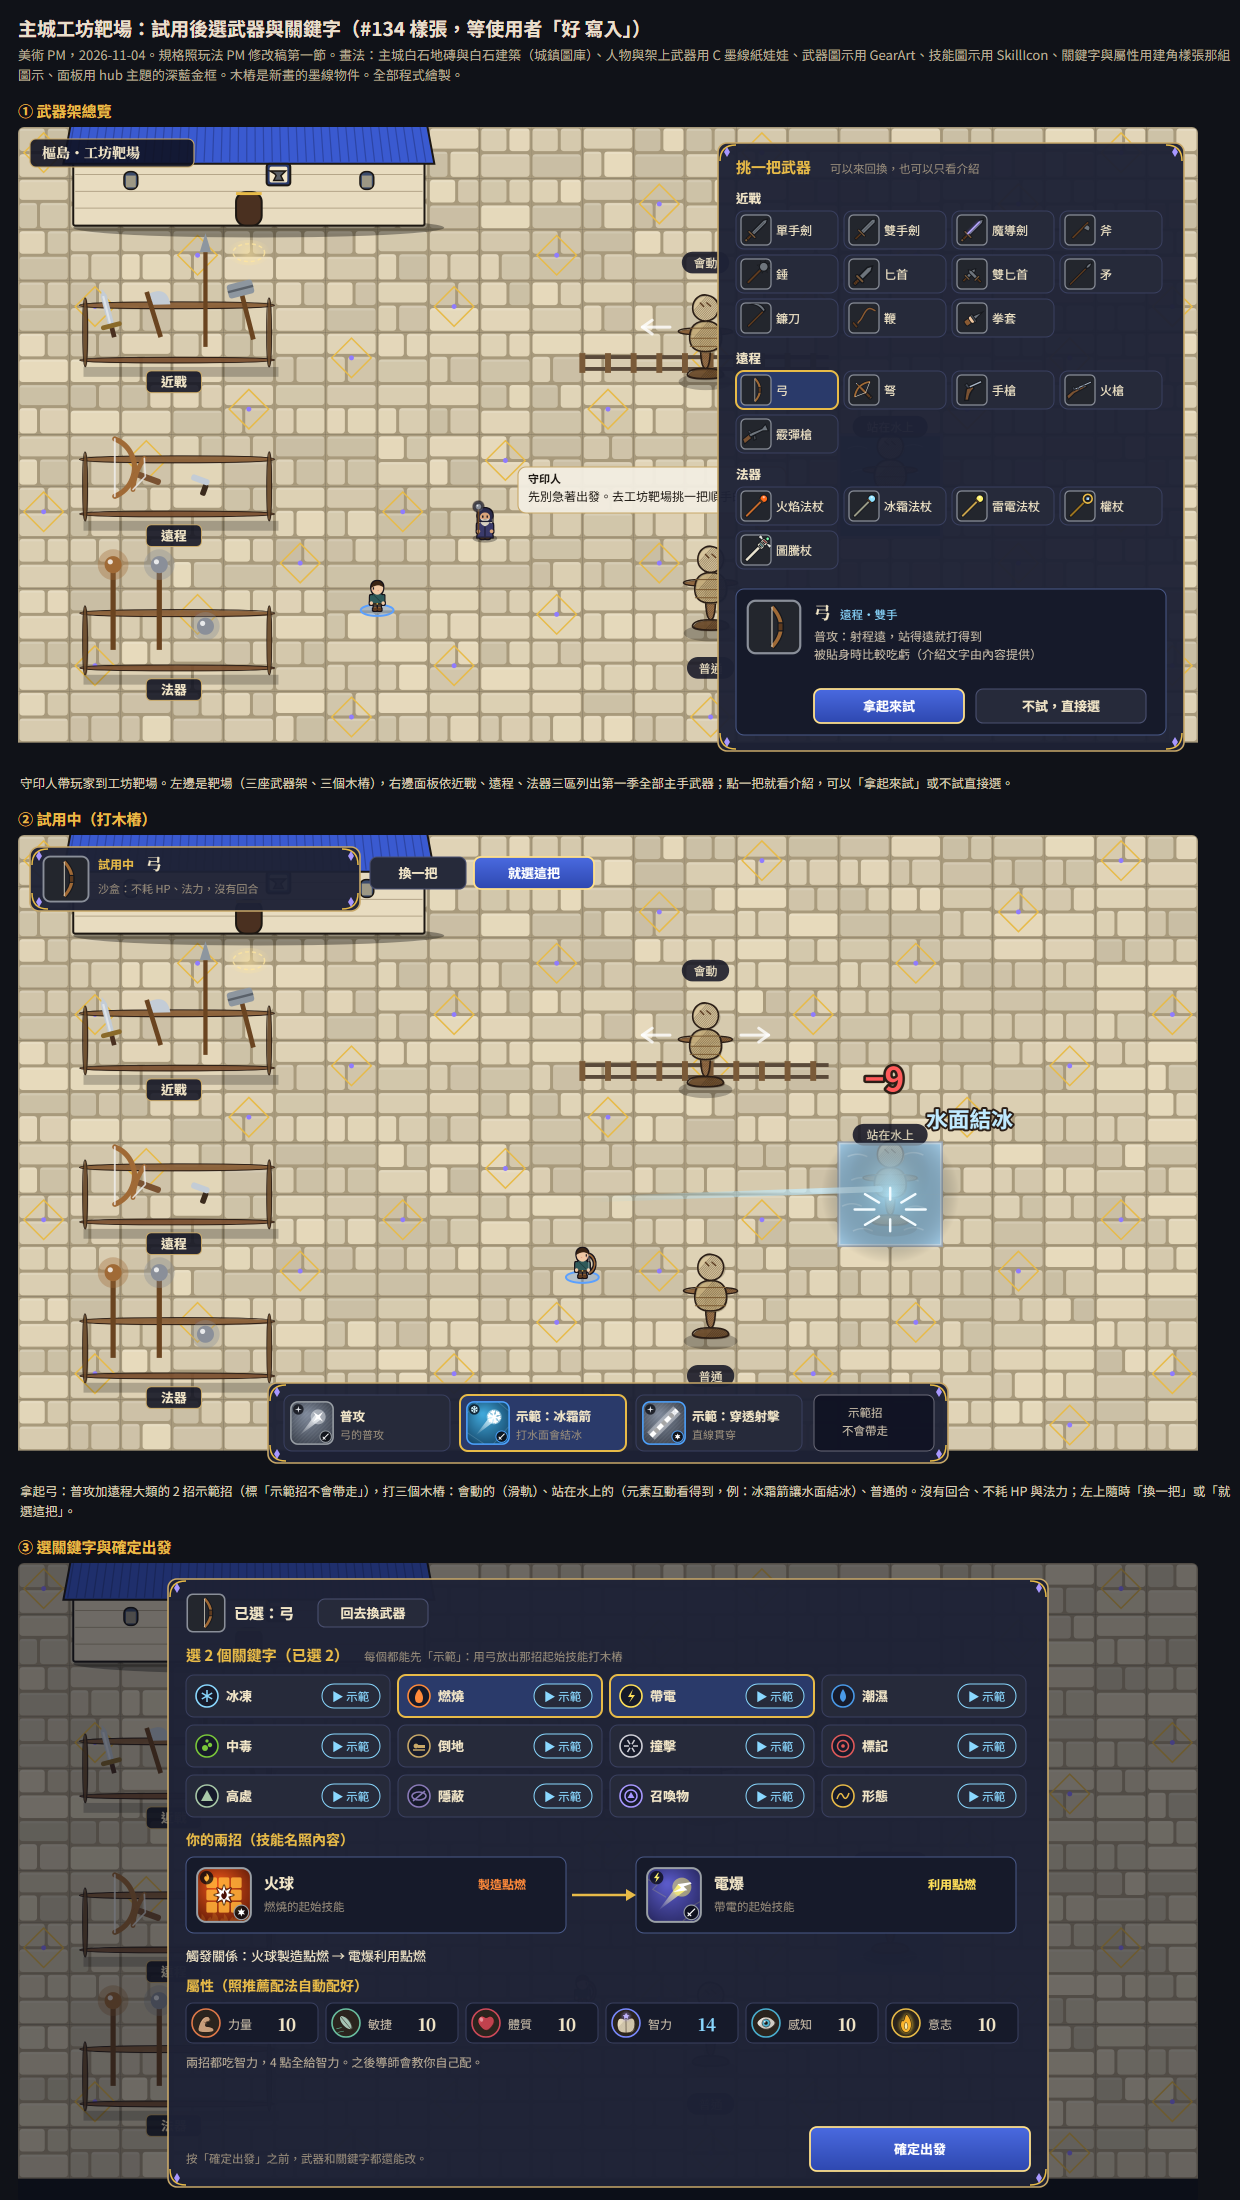
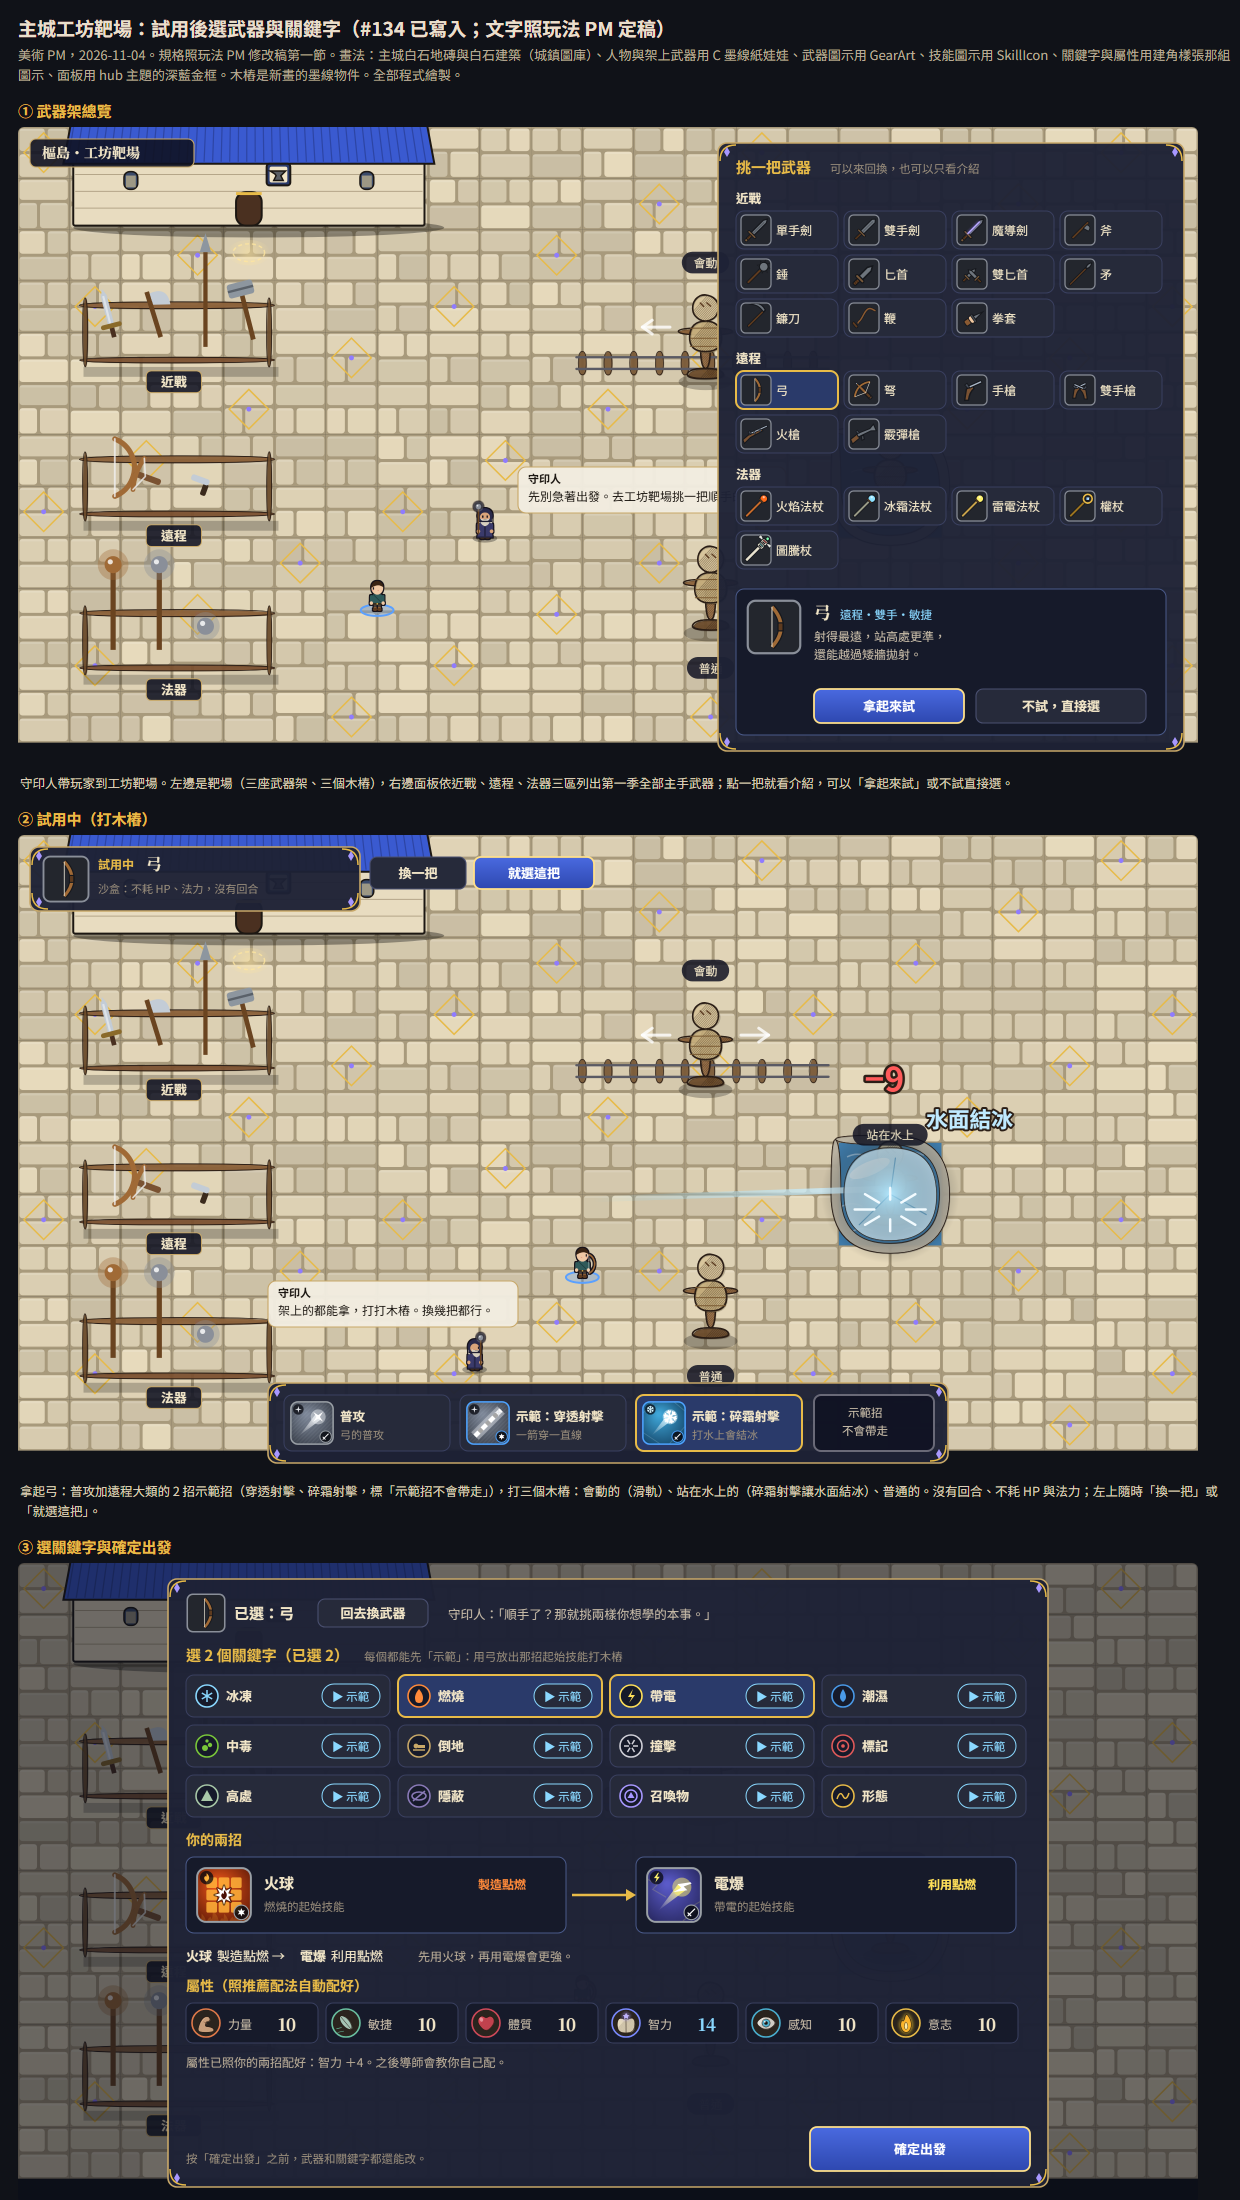
docs(art): range sample with final text; ink rails, pool rim, ice surface (WIP check pending)

diff --git a/docs/art/sample/range.html b/docs/art/sample/range.html
@@ -2,10 +2,10 @@
 <html lang="zh-Hant"><head><meta charset="utf-8"><title>主城工坊靶場</title>
 <style>body{margin:0;padding:14px 18px;background:#101218;color:#eadfcc;font-family:"Noto Sans TC","Microsoft JhengHei",sans-serif;width:1220px}h1{font-size:19px;margin:0 0 4px}h2{font-size:15px;color:#e8bb48;margin:16px 0 6px}.note{color:#b8ab96;font-size:13px;margin:0 0 8px;line-height:1.5}.cap{font-size:12.5px;color:#d8ccb6;line-height:1.55;margin:6px 2px 0}canvas{display:block;border-radius:6px}</style></head>
 <body>
-<h1>主城工坊靶場：試用後選武器與關鍵字（#134 樣張，等使用者「好 寫入」）</h1>
+<h1>主城工坊靶場：試用後選武器與關鍵字（#134 已寫入；文字照玩法 PM 定稿）</h1>
 <p class="note">美術 PM，2026-11-04。規格照玩法 PM 修改稿第一節。畫法：主城白石地磚與白石建築（城鎮圖庫）、人物與架上武器用 C 墨線紙娃娃、武器圖示用 GearArt、技能圖示用 SkillIcon、關鍵字與屬性用建角樣張那組圖示、面板用 hub 主題的深藍金框。木樁是新畫的墨線物件。全部程式繪製。</p>
 <h2>① 武器架總覽</h2><div id="p1"></div><div class="cap">守印人帶玩家到工坊靶場。左邊是靶場（三座武器架、三個木樁），右邊面板依近戰、遠程、法器三區列出第一季全部主手武器；點一把就看介紹，可以「拿起來試」或不試直接選。</div>
-<h2>② 試用中（打木樁）</h2><div id="p2"></div><div class="cap">拿起弓：普攻加遠程大類的 2 招示範招（標「示範招不會帶走」），打三個木樁：會動的（滑軌）、站在水上的（元素互動看得到，例：冰霜箭讓水面結冰）、普通的。沒有回合、不耗 HP 與法力；左上隨時「換一把」或「就選這把」。</div>
+<h2>② 試用中（打木樁）</h2><div id="p2"></div><div class="cap">拿起弓：普攻加遠程大類的 2 招示範招（穿透射擊、碎霜射擊，標「示範招不會帶走」），打三個木樁：會動的（滑軌）、站在水上的（碎霜射擊讓水面結冰）、普通的。沒有回合、不耗 HP 與法力；左上隨時「換一把」或「就選這把」。</div>
 <h2>③ 選關鍵字與確定出發</h2><div id="p3"></div><div class="cap">選定武器後選 2 個關鍵字，每個都有「示範」（用剛選的武器放那招起始技能打木樁）。選完顯示兩招與觸發關係、自動配好的屬性（「之後導師會教你自己配」）。「確定出發」之前都能改；按下後守印人指路去霧渡鎮。</div>
 <script src="raceArt.js"></script><script src="paperdoll.js"></script><script src="storyDoll.js"></script><script src="portraits.js"></script>
 <script src="realms.js"></script><script src="enemyArt.js"></script><script src="explore.js"></script><script src="hud.js"></script><script src="regions4.js"></script><script src="cloudTiles.js"></script><script src="ashenTiles.js"></script><script src="townTiles.js"></script>
@@ -53,10 +53,13 @@ function dummy(c,cx,cy,k=1,hit=false){c.save();c.translate(cx,cy);c.scale(k,k);
 // 靶場：主城白石地磚、工坊、三座武器架（掛紙娃娃武器）、三個木樁（滑軌、水池、普通）
 function range(c,opt={}){for(let gy=0;gy<12;gy++)for(let gx=0;gx<23;gx++)TT.plaza(c,gx,gy);
   TT.stoneHall(c,1,-1,7,3,{door:3.5,windows:[1.2,5.8],sign:"anvil"});
-  c.strokeStyle="#5a4a3a";c.lineWidth=4;for(const dy of [-6,6]){c.beginPath();c.moveTo(11*T,4.6*T+dy);c.lineTo(15.8*T,4.6*T+dy);c.stroke();}
-  for(let i=0;i<10;i++){c.fillStyle="#7a5a38";c.fillRect(11*T+i*T*0.5-3,4.6*T-10,6,20);}
+  // 滑軌（墨線）：兩條鐵軌、枕木
+  for(let k=0;k<10;k++)ink(c,"tie"+k,[[11*T+k*T*0.5-4,4.6*T-12],[11*T+k*T*0.5+4,4.6*T-12],[11*T+k*T*0.5+4,4.6*T+12],[11*T+k*T*0.5-4,4.6*T+12]],"#7a5a38",{w:0.6,shade:false});
+  for(const dy of [-6,6])stroke(c,"rail"+dy,[[11*T-6,4.6*T+dy],[15.8*T,4.6*T+dy]],2.4,"#5a5a64");
+
   for(let gy=6;gy<8;gy++)for(let gx=16;gx<18;gx++)E.ground(c,"w",gx,gy);
-  c.strokeStyle="#9aa4b0";c.lineWidth=3;c.strokeRect(16*T,6*T,2*T,2*T);
+  // 水池石緣（墨線）
+  ink(c,"pool-rim",[[16*T-8,6*T-8],[18*T+8,6*T-8],[18*T+8,8*T+8],[16*T-8,8*T+8],[16*T-8,6*T-8],[16*T+2,6*T+2],[16*T+2,8*T-2],[18*T-2,8*T-2],[18*T-2,6*T+2],[16*T+2,6*T+2]],"#b8b0a0",{w:0.8,shade:false});
   const racks=[[1.2,4.6,"近戰",[{kind:"sword",material:"steel"},{kind:"axe",material:"steel"},{kind:"spear",material:"iron"},{kind:"hammer",material:"iron"}]],
                [1.2,7.6,"遠程",[{kind:"bow",material:"wood"},{kind:"crossbow",material:"wood"},{kind:"gun",material:"steel"}]],
                [1.2,10.6,"法器",[{kind:"staff",material:"wood"},{kind:"staff",material:"crystal"},{kind:"orb"}]]];
@@ -72,7 +75,7 @@ function range(c,opt={}){for(let gy=0;gy<12;gy++)for(let gx=0;gx<23;gx++)TT.plaz
 const HERO=[{skin:SK[0],hair:"short",hairColor:"#3a2414"},{body:{kind:"leather",color:"#2f5a5a"},feet:{kind:"boots",material:"leather"}}];
 const KEEPER=[{skin:SK[1],hair:"long",hairColor:"#d8d0c0",beard:true},{body:{kind:"robe",color:"#3a3a6a",trim:"#e8bb48"},head:{kind:"hood",color:"#2a2a4a"},main_hand:{kind:"staff",material:"crystal"}}];
 const WEAPONS={近戰:[["單手劍",{kind:"sword"}],["雙手劍",{kind:"greatsword"}],["魔導劍",{kind:"sword",material:"crystal"}],["斧",{kind:"axe"}],["錘",{kind:"hammer"}],["匕首",{kind:"dagger"}],["雙匕首",{kind:"dual_dagger"}],["矛",{kind:"spear"}],["鐮刀",{kind:"scythe"}],["鞭",{kind:"whip"}],["拳套",{kind:"fist"}]],
- 遠程:[["弓",{kind:"bow"}],["弩",{kind:"crossbow"}],["手槍",{kind:"pistol"}],["火槍",{kind:"longgun"}],["霰彈槍",{kind:"shotgun"}]],
+ 遠程:[["弓",{kind:"bow"}],["弩",{kind:"crossbow"}],["手槍",{kind:"pistol"}],["雙手槍",{kind:"dual_pistol"}],["火槍",{kind:"longgun"}],["霰彈槍",{kind:"shotgun"}]],
  法器:[["火焰法杖",{kind:"staff",keywords:["ignite"]}],["冰霜法杖",{kind:"staff",keywords:["freeze"]}],["雷電法杖",{kind:"staff",keywords:["shock"]}],["權杖",{kind:"staff",form:"scepter",material:"gold"}],["圖騰杖",{kind:"staff",form:"totem",material:"bone"}]]};
 function arcaneMark(x,X,Y,s){const a=[X+s*0.36,Y+s*0.62],b=[X+s*0.74,Y+s*0.24];x.save();x.shadowColor="#9a86ff";x.shadowBlur=5;x.strokeStyle="#b8a8ff";x.lineWidth=1.4;x.beginPath();x.moveTo(...a);x.lineTo(...b);x.stroke();x.restore();}
 // ① 武器架總覽
@@ -84,36 +87,38 @@ function arcaneMark(x,X,Y,s){const a=[X+s*0.36,Y+s*0.62],b=[X+s*0.74,Y+s*0.24];x
    list.forEach(([n,it],i)=>{const X=PX+18+(i%4)*108,YY=Y+Math.floor(i/4)*44,sel=n==="弓";chip(x,X,YY,102,38,sel);gicon(x,X+4,YY+3,32,it);if(n==="魔導劍")arcaneMark(x,X+4,YY+3,32);x.fillStyle=CREAM;x.font=`12px ${FONT}`;x.fillText(n,X+40,YY+24);});
    Y+=Math.ceil(list.length/4)*44+6;});
  const IY=PY+446;x.fillStyle=NAVY2;x.beginPath();x.roundRect(PX+18,IY,430,146,8);x.fill();x.strokeStyle="#4a5a8a";x.lineWidth=1;x.stroke();
- gicon(x,PX+28,IY+10,56,{kind:"bow"});x.fillStyle=CREAM;x.font=`bold 17px ${SERIF}`;x.fillText("弓",PX+96,IY+30);x.fillStyle="#8ad8ff";x.font=`11.5px ${FONT}`;x.fillText("遠程・雙手",PX+122,IY+30);
- x.fillStyle="#c8bca8";x.font=`12px ${FONT}`;["普攻：射程遠，站得遠就打得到","被貼身時比較吃虧（介紹文字由內容提供）"].forEach((t,i)=>x.fillText(t,PX+96,IY+52+i*18));
+ gicon(x,PX+28,IY+10,56,{kind:"bow"});x.fillStyle=CREAM;x.font=`bold 17px ${SERIF}`;x.fillText("弓",PX+96,IY+30);x.fillStyle="#8ad8ff";x.font=`11.5px ${FONT}`;x.fillText("遠程・雙手・敏捷",PX+122,IY+30);
+ x.fillStyle="#c8bca8";x.font=`12px ${FONT}`;["射得最遠，站高處更準，","還能越過矮牆拋射。"].forEach((t,i)=>x.fillText(t,PX+96,IY+52+i*18));
  btn(x,PX+96,IY+100,150,34,"拿起來試",true);btn(x,PX+258,IY+100,170,34,"不試，直接選",false);}
 // ② 試用中
 {const x=mk("p2");x.save();x.scale(SC,SC);range(x,{hit:"water"});
  const hero=[HERO[0],{...HERO[1],main_hand:{kind:"bow",material:"wood"}}];E.person(x,10.5,7.8,...hero,"east","#5aa0ff");
+ E.person(x,8.4,9.6,...KEEPER,"east",null);
  const sx=11.2*T,sy=7.1*T,ex=16.8*T,ey=6.9*T;const g=x.createLinearGradient(sx,sy,ex,ey);g.addColorStop(0,"rgba(138,216,255,0)");g.addColorStop(1,"rgba(220,245,255,0.95)");x.strokeStyle=g;x.lineWidth=6;x.beginPath();x.moveTo(sx,sy);x.lineTo(ex,ey);x.stroke();
- x.fillStyle="rgba(215,242,255,0.6)";x.fillRect(16*T,6*T,2*T,2*T);glow(x,17*T,7.0*T,70,"rgba(170,230,255,0.8)");
+ /* 結冰：照戰場的冰面畫法——淡藍冰面、白色高光、冰裂紋（墨線） */ink(x,"ice",[[16*T+4,6*T+6],[18*T-6,6*T+4],[18*T-4,8*T-6],[16*T+6,8*T-4]],"#cfeeff",{w:0.6,shade:false});x.fillStyle="rgba(255,255,255,0.55)";x.beginPath();x.ellipse(16.6*T,6.5*T,22,7,-0.4,0,TAU);x.fill();for(const [a,b] of [[[16.4*T,7.6*T],[17*T,7*T]],[[17*T,7*T],[17.7*T,7.4*T]],[[17*T,7*T],[17.1*T,6.3*T]]])stroke(x,"crk"+a[0],[a,b],1.2,"#6aa8d0");glow(x,17*T,7.0*T,70,"rgba(170,230,255,0.8)");
  for(let i=0;i<8;i++){const a=i/8*TAU;x.strokeStyle="#f2fbff";x.lineWidth=2.5;x.beginPath();x.moveTo(17*T+Math.cos(a)*16,7.3*T+Math.sin(a)*10);x.lineTo(17*T+Math.cos(a)*36,7.3*T+Math.sin(a)*22);x.stroke();}
  x.lineJoin="round";x.fillStyle="#ff5a5a";x.strokeStyle="#2b1e16";x.lineWidth=5;x.font=`bold 34px ${FONT}`;x.strokeText("−9",16.5*T,5.0*T);x.fillText("−9",16.5*T,5.0*T);
  x.fillStyle="#bfeaff";x.lineWidth=4;x.font=`bold 22px ${FONT}`;x.strokeText("水面結冰",17.7*T,5.7*T);x.fillText("水面結冰",17.7*T,5.7*T);x.restore();
+ x.fillStyle="rgba(242,236,224,0.97)";x.beginPath();x.roundRect(250,446,250,46,8);x.fill();x.strokeStyle=GOLD;x.lineWidth=1.1;x.stroke();x.fillStyle="#1c1712";x.font=`bold 11px ${FONT}`;x.fillText("守印人",260,462);x.font=`12px ${FONT}`;x.fillText("架上的都能拿，打打木樁。換幾把都行。",260,480);
  panel(x,12,12,330,64);gicon(x,24,20,48,{kind:"bow"});x.fillStyle=GOLD2;x.font=`bold 12px ${FONT}`;x.fillText("試用中",80,34);x.fillStyle=CREAM;x.font=`bold 16px ${SERIF}`;x.fillText("弓",128,35);x.fillStyle="#9a8e7c";x.font=`11px ${FONT}`;x.fillText("沙盒：不耗 HP、法力，沒有回合",80,58);
  btn(x,352,22,96,32,"換一把",false);btn(x,456,22,120,32,"就選這把",true);
- panel(x,250,548,680,80);const sk=[["普攻",{element:"physical",shape:"single",range:6,skeleton:"strike",rarity:"common"},"弓的普攻"],["示範：冰霜箭",{element:"ice",shape:"single",range:6,skeleton:"strike",rarity:"rare"},"打水面會結冰"],["示範：穿透射擊",{element:"physical",shape:"line",skeleton:"area",rarity:"rare"},"直線貫穿"]];
- sk.forEach(([n,spec,d],i)=>{const X=266+i*176,Y=560,sel=i===1;chip(x,X,Y,166,56,sel);sicon(x,X+6,Y+6,44,spec);x.fillStyle=CREAM;x.font=`bold 12.5px ${FONT}`;x.fillText(n,X+56,Y+26);x.fillStyle="#9a8e7c";x.font=`11px ${FONT}`;x.fillText(d,X+56,Y+44);});
+ panel(x,250,548,680,80);const sk=[["普攻",{element:"physical",shape:"single",range:6,skeleton:"strike",rarity:"common"},"弓的普攻"],["示範：穿透射擊",{element:"physical",shape:"line",skeleton:"area",rarity:"rare"},"一箭穿一直線"],["示範：碎霜射擊",{element:"ice",shape:"single",range:6,skeleton:"strike",rarity:"rare"},"打水上會結冰"]];
+ sk.forEach(([n,spec,d],i)=>{const X=266+i*176,Y=560,sel=i===2;chip(x,X,Y,166,56,sel);sicon(x,X+6,Y+6,44,spec);x.fillStyle=CREAM;x.font=`bold 12.5px ${FONT}`;x.fillText(n,X+56,Y+26);x.fillStyle="#9a8e7c";x.font=`11px ${FONT}`;x.fillText(d,X+56,Y+44);});
  x.fillStyle="rgba(16,18,34,0.9)";x.beginPath();x.roundRect(796,560,120,56,7);x.fill();x.strokeStyle="#6a6a78";x.stroke();x.fillStyle="#c8bca8";x.font=`11.5px ${FONT}`;x.fillText("示範招",830,582);x.fillText("不會帶走",824,600);}
 // ③ 選關鍵字與確定出發
 {const x=mk("p3");x.save();x.scale(SC,SC);range(x,{still:true});E.person(x,10.5,7.8,HERO[0],{...HERO[1],main_hand:{kind:"bow",material:"wood"}},"east","#5aa0ff");x.restore();x.fillStyle="rgba(10,12,26,0.55)";x.fillRect(0,0,W,H);
  const PX=150,PY=16;panel(x,PX,PY,880,608);
- gicon(x,PX+18,PY+14,40,{kind:"bow"});x.fillStyle=CREAM;x.font=`bold 15px ${FONT}`;x.fillText("已選：弓",PX+66,PY+40);btn(x,PX+150,PY+20,110,28,"回去換武器",false);
+ gicon(x,PX+18,PY+14,40,{kind:"bow"});x.fillStyle=CREAM;x.font=`bold 15px ${FONT}`;x.fillText("已選：弓",PX+66,PY+40);btn(x,PX+150,PY+20,110,28,"回去換武器",false);x.fillStyle="#c8bca8";x.font=`12.5px ${FONT}`;x.fillText("守印人：「順手了？那就挑兩樣你想學的本事。」",PX+280,PY+40);
  x.fillStyle=GOLD2;x.font=`bold 15px ${FONT}`;x.fillText("選 2 個關鍵字（已選 2）",PX+18,PY+82);x.fillStyle="#9a8e7c";x.font=`11.5px ${FONT}`;x.fillText("每個都能先「示範」：用弓放出那招起始技能打木樁",PX+196,PY+82);
  const KW=["冰凍","燃燒","帶電","潮濕","中毒","倒地","撞擊","標記","高處","隱蔽","召喚物","形態"],SEL={燃燒:1,帶電:1};
  KW.forEach((k,i)=>{const X=PX+18+(i%4)*212,Y=PY+96+Math.floor(i/4)*50,sel=!!SEL[k];chip(x,X,Y,204,42,sel);kwIcon(x,X+21,Y+21,k);x.fillStyle=CREAM;x.font=`bold 13px ${FONT}`;x.fillText(k,X+40,Y+26);
    x.fillStyle="#262a3a";x.beginPath();x.roundRect(X+136,Y+9,58,24,12);x.fill();x.strokeStyle="#8ad8ff";x.lineWidth=1;x.stroke();x.fillStyle="#8ad8ff";x.font=`11.5px ${FONT}`;x.fillText("▶ 示範",X+146,Y+26);});
- const CY=PY+266;x.fillStyle=GOLD2;x.font=`bold 14px ${FONT}`;x.fillText("你的兩招（技能名照內容）",PX+18,CY);
+ const CY=PY+266;x.fillStyle=GOLD2;x.font=`bold 14px ${FONT}`;x.fillText("你的兩招",PX+18,CY);
  const cards=[["火球",{element:"fire",shape:"square3",skeleton:"area",rarity:"common"},"燃燒的起始技能","製造點燃"],["電爆",{element:"lightning",shape:"single",range:5,skeleton:"strike",rarity:"common"},"帶電的起始技能","利用點燃"]];
  cards.forEach(([n,spec,d,role],i)=>{const X=PX+18+i*450,Y=CY+12;x.fillStyle=NAVY2;x.beginPath();x.roundRect(X,Y,380,76,8);x.fill();x.strokeStyle="#4a5a8a";x.lineWidth=1;x.stroke();sicon(x,X+10,Y+10,56,spec);
    x.fillStyle=CREAM;x.font=`bold 15px ${FONT}`;x.fillText(n,X+78,Y+32);x.fillStyle="#9a8e7c";x.font=`11.5px ${FONT}`;x.fillText(d,X+78,Y+54);x.fillStyle=i?"#ffe05a":"#ff8a3a";x.font=`bold 12px ${FONT}`;x.fillText(role,X+292,Y+32);});
  x.strokeStyle=GOLD2;x.lineWidth=2.5;x.beginPath();x.moveTo(PX+404,CY+50);x.lineTo(PX+462,CY+50);x.stroke();x.fillStyle=GOLD2;x.beginPath();x.moveTo(PX+468,CY+50);x.lineTo(PX+458,CY+44);x.lineTo(PX+458,CY+56);x.fill();
- x.fillStyle=CREAM;x.font=`13px ${FONT}`;x.fillText("觸發關係：火球製造點燃 → 電爆利用點燃",PX+18,CY+116);
+ x.fillStyle=CREAM;x.font=`13px ${FONT}`;x.font=`bold 13px ${FONT}`;x.fillText("火球",PX+18,CY+116);x.font=`13px ${FONT}`;x.fillText(" 製造點燃 → ",PX+46,CY+116);x.font=`bold 13px ${FONT}`;x.fillText("電爆",PX+132,CY+116);x.font=`13px ${FONT}`;x.fillText(" 利用點燃",PX+160,CY+116);x.fillStyle="#b8ab96";x.font=`12px ${FONT}`;x.fillText("先用火球，再用電爆會更強。",PX+250,CY+116);
  const AY=CY+146;x.fillStyle=GOLD2;x.font=`bold 14px ${FONT}`;x.fillText("屬性（照推薦配法自動配好）",PX+18,AY);
    const ATTR = [
     ["str", "力量", "#e07a4a", (c) => { ink(c, "arm", [[10, 34], [14, 22], [20, 14], [28, 12], [32, 18], [28, 22], [24, 22], [22, 30], [30, 30], [38, 34], [36, 40], [12, 40]], "#e8b890", { w: 0.9 }); stroke(c, "arm-m", [[20, 22], [26, 26]], 0.8, "#8a5a3a"); }],
@@ -127,7 +132,7 @@ function arcaneMark(x,X,Y,s){const a=[X+s*0.36,Y+s*0.62],b=[X+s*0.74,Y+s*0.24];x
  ATTR.forEach(([id,zh,col,fn],i)=>{const X=PX+18+i*140,Y=AY+12;x.fillStyle=NAVY2;x.beginPath();x.roundRect(X,Y,132,40,7);x.fill();x.strokeStyle="#3a4060";x.lineWidth=1;x.stroke();
    x.save();x.translate(X+6,Y+6);x.beginPath();x.arc(14,14,14,0,TAU);x.fillStyle="#2a241e";x.fill();x.lineWidth=1.6;x.strokeStyle=col;x.stroke();x.beginPath();x.arc(14,14,13,0,TAU);x.clip();x.scale(28/48,28/48);fn(x);x.restore();
    x.fillStyle="#c8bca8";x.font=`12px ${FONT}`;x.fillText(zh,X+42,Y+26);x.fillStyle=VAL[id]>10?"#8ad8ff":CREAM;x.font=`bold 17px ${SERIF}`;x.fillText(String(VAL[id]),X+92,Y+28);});
- x.fillStyle="#b8ab96";x.font=`12px ${FONT}`;x.fillText("兩招都吃智力，4 點全給智力。之後導師會教你自己配。",PX+18,AY+76);
+ x.fillStyle="#b8ab96";x.font=`12px ${FONT}`;x.fillText("屬性已照你的兩招配好：智力 ＋4。之後導師會教你自己配。",PX+18,AY+76);
  x.fillStyle="#9a8e7c";x.font=`11.5px ${FONT}`;x.fillText("按「確定出發」之前，武器和關鍵字都還能改。",PX+18,PY+584);
  btn(x,PX+880-238,PY+548,220,44,"確定出發",true);}
 </script></body></html>
